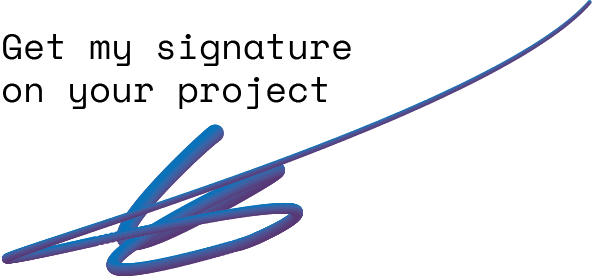
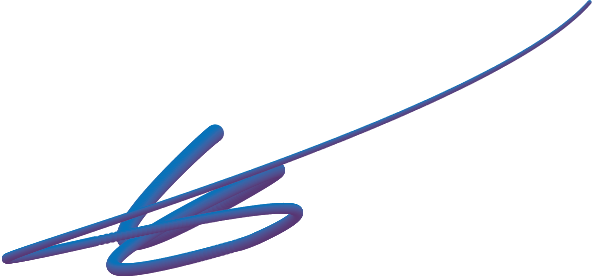
big changes

diff --git a/index.html b/index.html
@@ -46,14 +46,24 @@
   </div>
   <div class="row">
     <div class="col-md-6 titlecard">
-      <p class="subtitle">A Digital Marketing professional that can take care of <b>everything.</b> </p>
+      <p class="subtitle">A Digital Marketing professional that can take care of <b>everything.</b>
+      <br>
+      <br>
+      Get my signature on your project.
+    </p>
+        <img class="signature" src="\images\Signature.png" alt="">
     </div>
     <div class="col-md-6">
     <div class="container">
   <table>
     <tr>
       <td>
-        <img class="myimage" src="\images\Eduardo Sousa.jpg" alt="">
+        <div class="">
+          <div class="myimage">
+          </div>
+          <a href="\Contact.html"><button class="contactme homebutton"type="button" name="button">Hire me</button></a>
+        </div>
+        <img class="myimagemobile" src="\images\Eduardo Sousa Mobile.png" alt="">
       </td>
     </tr>
   </table>
@@ -67,8 +77,6 @@
     </div>
     <div class="col-md-6">
     <div class="container">
-      <img class="signature" src="\images\Signature.png" alt="">
-    <a href="\Contact.html"><button class="contactme homebutton"type="button" name="button">Hire me</button></a>
     </div>
     </div>
   </div>
@@ -152,11 +160,6 @@
           </div>
         </div>
       </div>
-      <nav class="navbar navbar-light justify-content-between">
-        <span></span>
-        <a class="btn btn-outline-dark" href="/blog.html" role="button">Read More</a>
-        </form>
-      </nav>
     </div>
   </div>
   <!-- Script for the changing titlecard -->

diff --git a/css/master.css b/css/master.css
@@ -8,6 +8,7 @@ body {
   font-family: 'Space Mono', monospace;
   overflow-x: hidden;
   position: relative
+  width: 1000px;
 }
 html{
   overflow-x: hidden;
@@ -26,9 +27,9 @@ a:hover {
 
 .signature{
   margin-top: -50px;
-  margin-left: 10px;
+  margin-left: 75px;
   margin-right: 10px;
-  width: 90%;
+  width: 70%;
 
 }
 .container{
@@ -37,25 +38,29 @@ a:hover {
 .container .homebutton {
   position: absolute;
   top: 50%;
-  left: 70%;
+  left: 50%;
   transform: translate(-50%, -50%);
   -ms-transform: translate(-50%, -50%);
 }
 .myimage{
+  background-image: \images\Eduardo Sousa.jpg;
   width: 120%;
   margin-top: -500px;
 }
-@media (max-width: 1000px) {
+@media (max-width: 1365px) {
 
       .myimage {
-        width: 120vw;
-        height: 100PX;
-        margin-left: -15px;
-        object-fit: cover;
-        margin-top: 0px;
+        height: 0PX;
        }
-
+      .myimagemobile{
+        height: 100px;
+      }
 }
+@media (min-width: 1366px) {
+
+      .myimagemobile {
+        height: 0PX;
+       }
 }
 /* for the galery*/
 .galeryrow {
